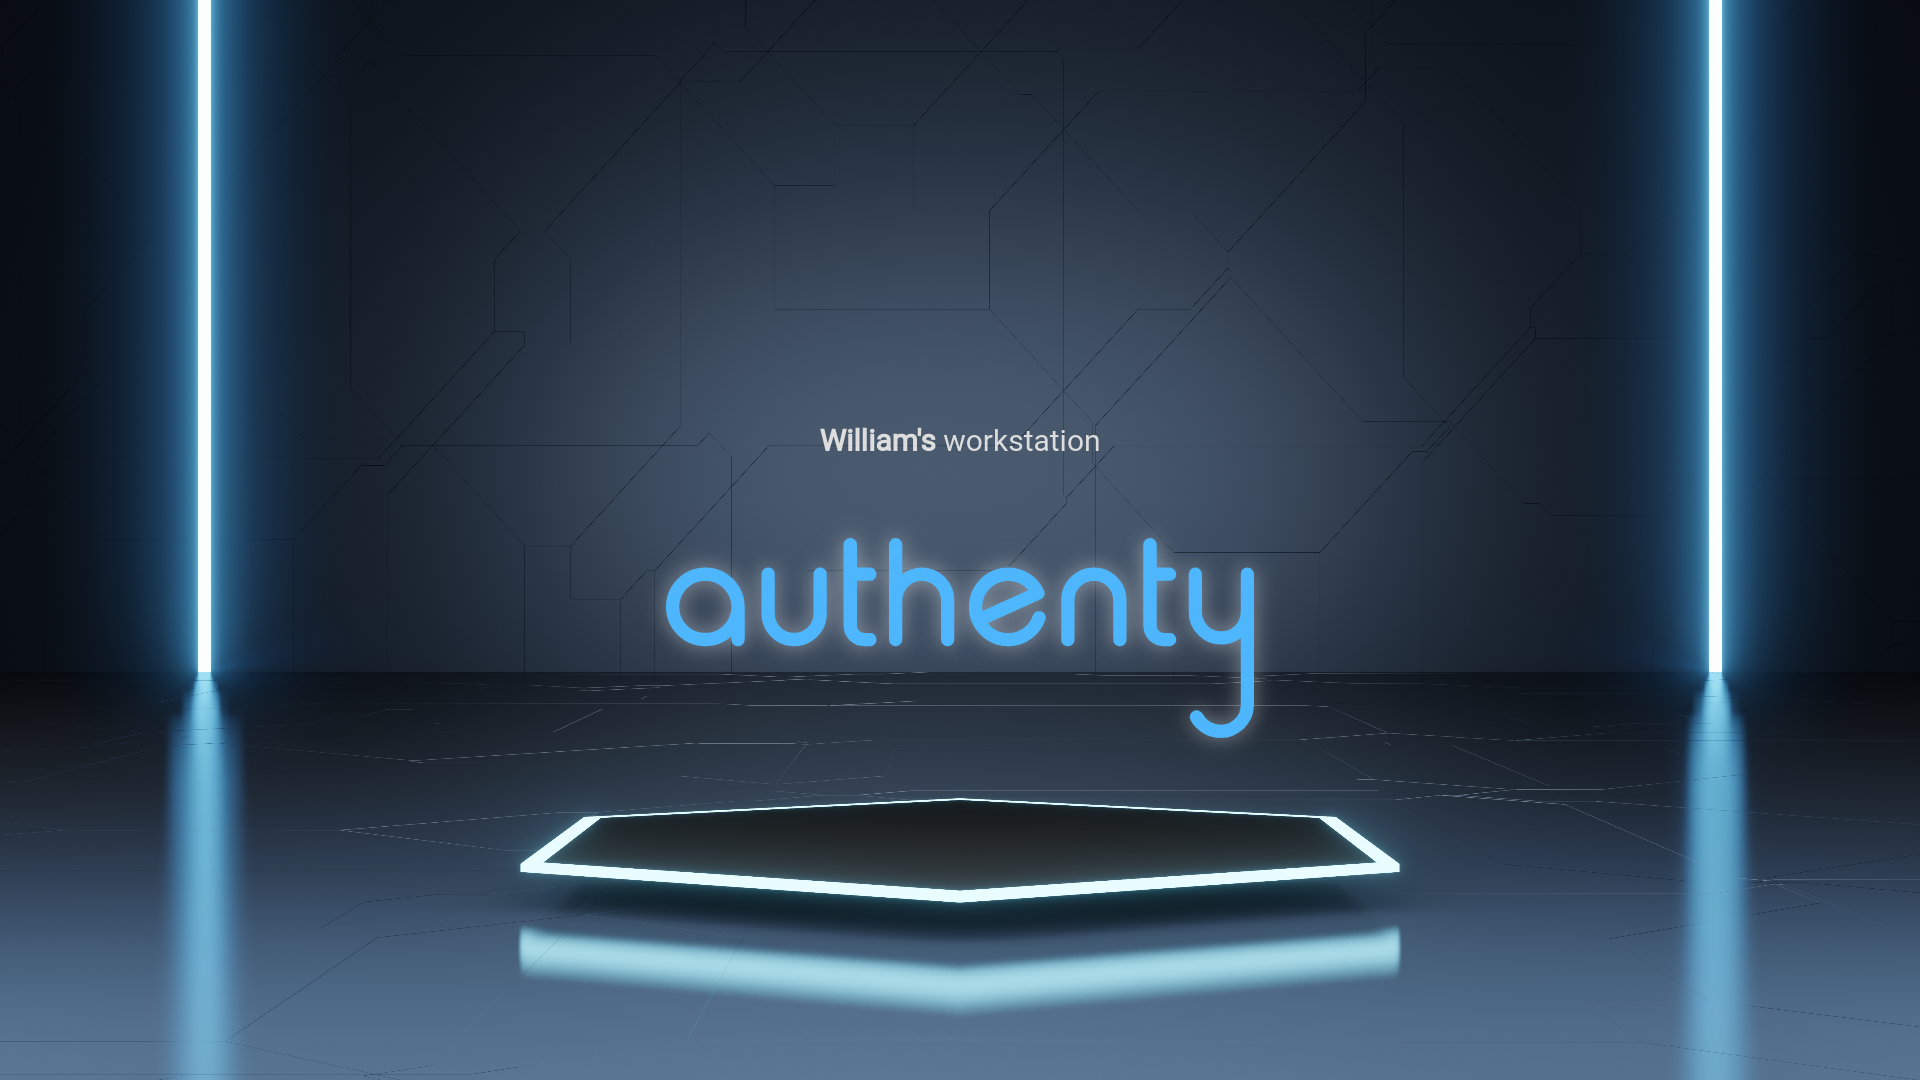
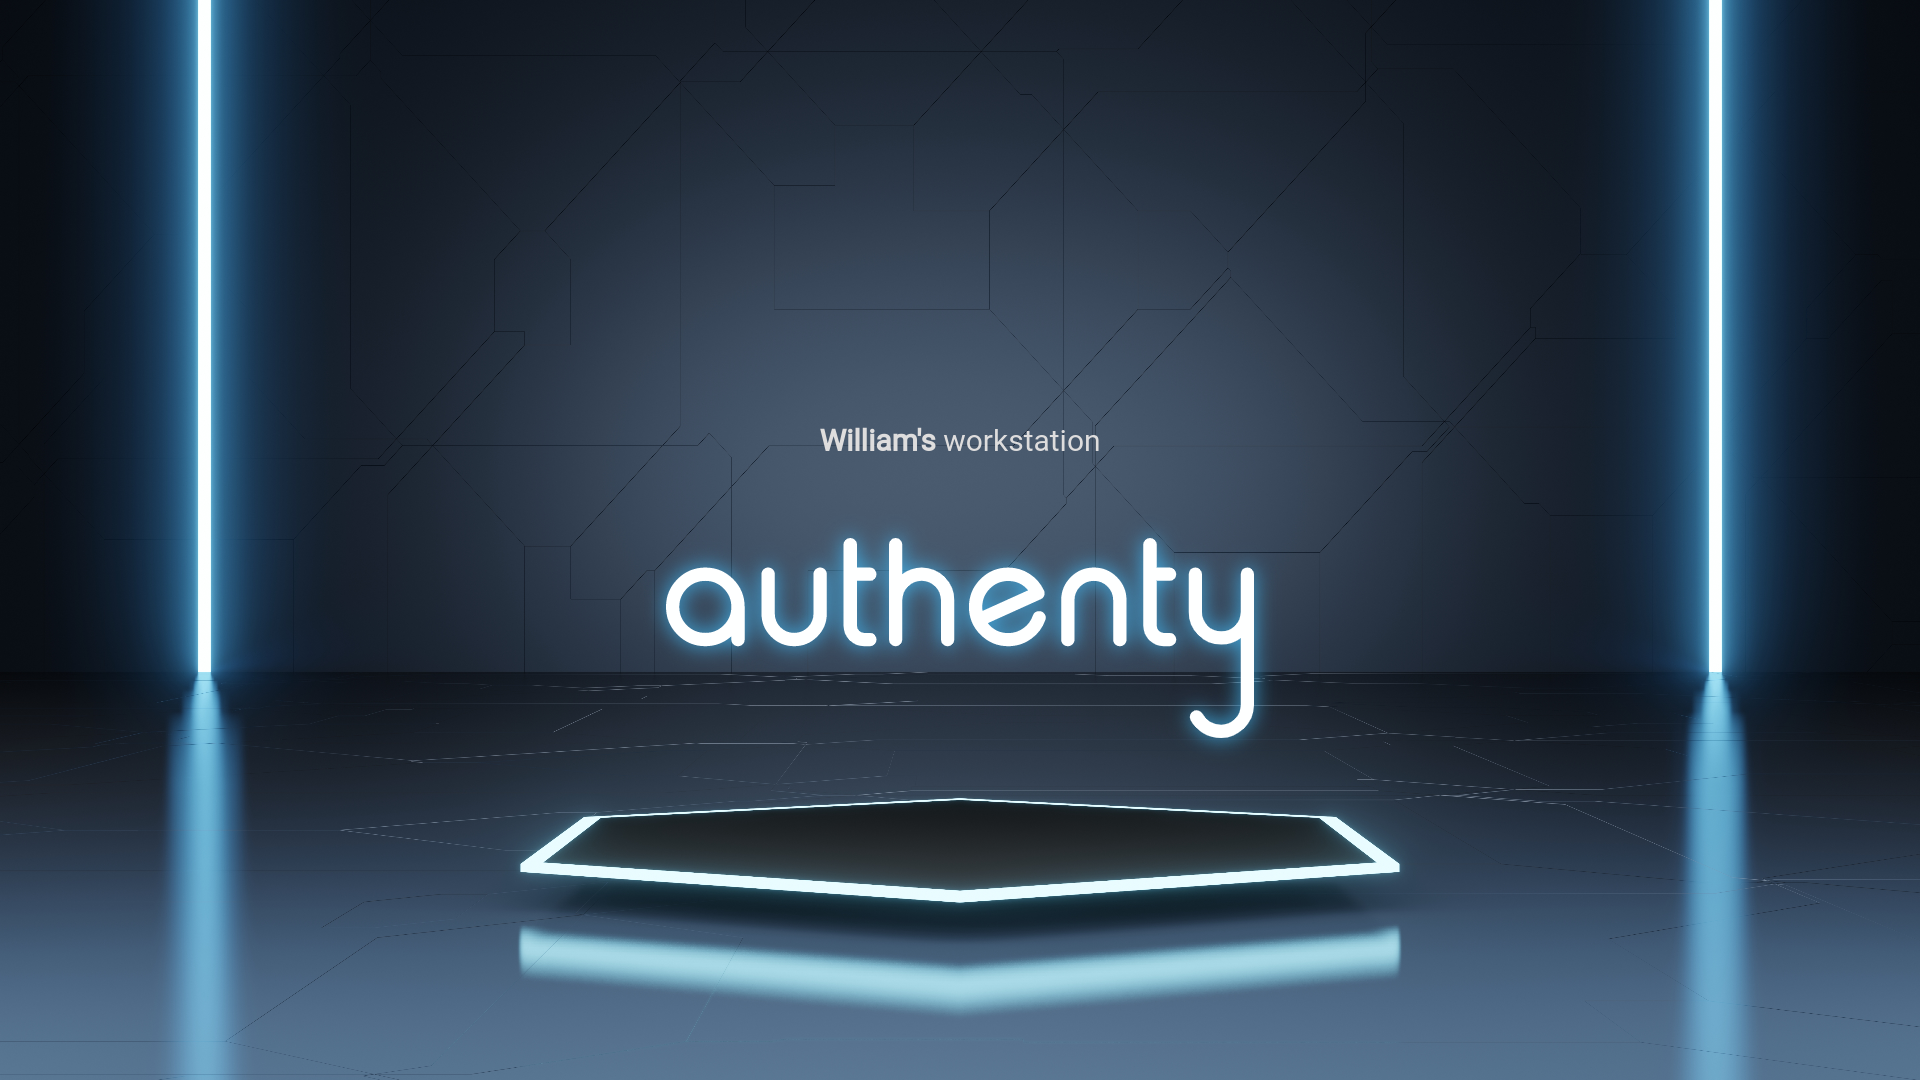
upld

Changed region(s): [[0.3438, 0.4889, 0.6562, 0.7028]]

diff --git a/PapeisDeParede/Authenty_ExpRoom/src/style.css b/PapeisDeParede/Authenty_ExpRoom/src/style.css
@@ -29,7 +29,7 @@ html, body{
 
 .fundo .center img{
     height: 200px;
-    filter: drop-shadow( 0 0 10px #ffffff74)
+    filter: drop-shadow( 0 0 10px #43bffde9)
 }
 
 .fundo .center span{
